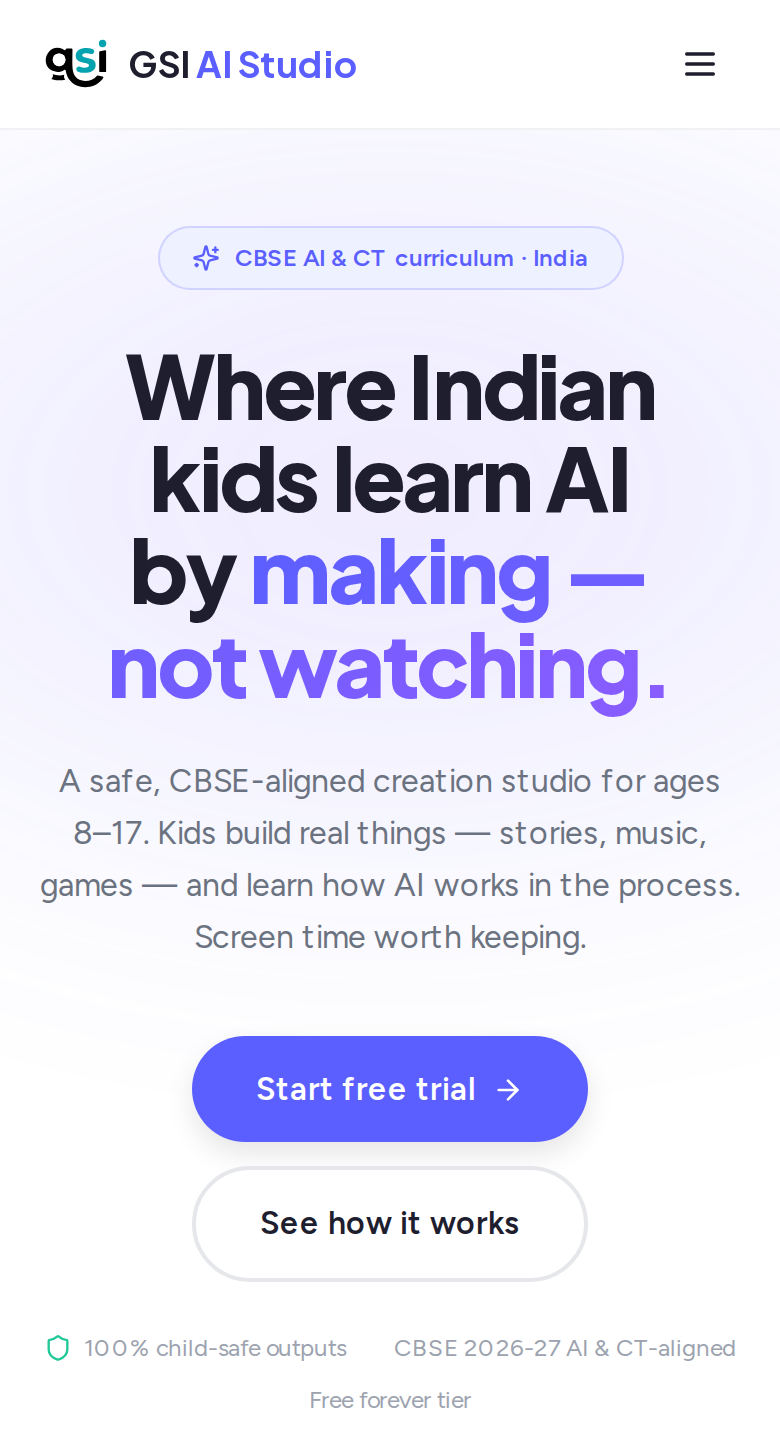
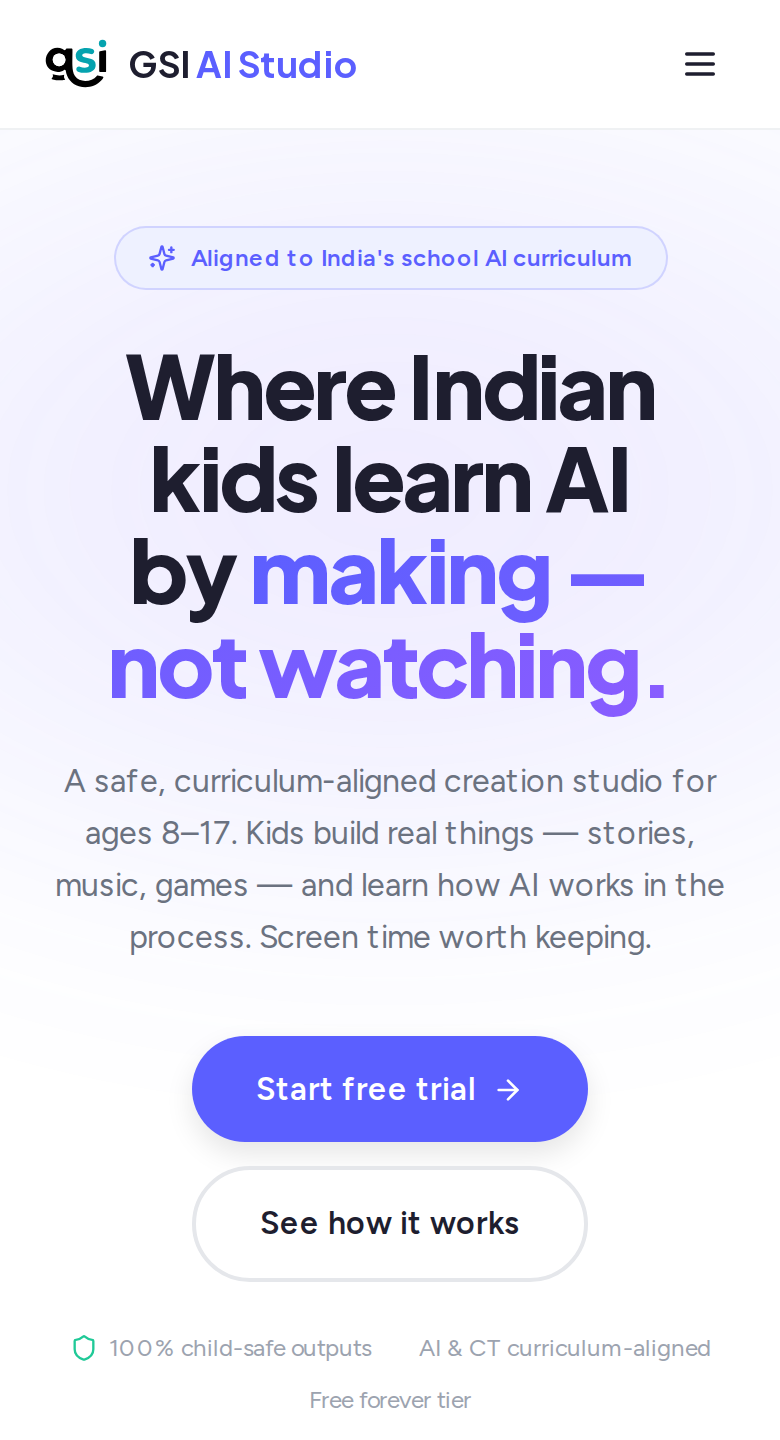
MARKETING-COPY: drop CBSE-specific framing, broaden to all boards
Locking the brand to CBSE shrinks the addressable market — ICSE,
state boards, IB, IGCSE families also need this. Rewrite the
shallow surfaces (hero variants, LogoBar pill, page metadata) to
positioning that includes every Indian board.

Replacements:
- "CBSE AI & CT-aligned" → "AI & CT curriculum-aligned"
- "Aligned to CBSE AI & CT" → "Aligned to India's school AI curriculum"
- "CBSE-aligned creation studio" → "curriculum-aligned creation studio"
- LogoBar pill "CBSE AI & CT Aligned · 2026-27 curriculum" →
  "AI & CT Curriculum-Aligned · For every Indian board"

Subject ("AI & Computational Thinking") stays — only the
board-specific brand leaves. Welcome metadata description, all 8
hero variants, and LogoBar updated.

Deeper components (AiXRayShowcase, ForSchoolsDetail, ParentFAQ,
VsChatGPT, Pricing, SiteFooter) still have CBSE references that
need a real re-thread, not a find-replace — leaving for the next
content pass.

diff --git a/content/marketing/welcome.ts b/content/marketing/welcome.ts
@@ -16,7 +16,7 @@
  */
 
 export interface HeroCopy {
-  /** Small pill above the headline (e.g. "Aligned to CBSE..."). */
+  /** Small pill above the headline (e.g. "Aligned to India's school AI curriculum"). */
   eyebrow: string;
   /** Plain text before the gradient highlight. */
   headlinePrefix: string;
@@ -45,7 +45,7 @@ export const HERO_STEPS: HeroStep[] = [
 export const heroVariants = {
   /* ─── v1: parent-careerist (current default) ────────────────────────── */
   v1_career: {
-    eyebrow: 'Aligned to CBSE AI & Computational Thinking · 2026-27',
+    eyebrow: "Aligned to India's school AI curriculum",
     headlinePrefix: 'From first story to',
     headlineHighlight: 'first AI engineer.',
     subhead:
@@ -61,7 +61,7 @@ export const heroVariants = {
 
   /* ─── v2: kid-magnetic (kids feel social pull, parents read "creative") */
   v2_kid_magnetic: {
-    eyebrow: 'CBSE AI & CT-aligned · Ages 8–17',
+    eyebrow: 'AI & CT curriculum-aligned · Ages 8–17',
     headlinePrefix: 'Make stuff other kids',
     headlineHighlight: 'actually want to see.',
     subhead:
@@ -70,7 +70,7 @@ export const heroVariants = {
     secondaryCta: { label: 'For schools', href: '#schools' },
     trustChips: [
       '100% child-safe outputs',
-      'CBSE AI & CT-aligned',
+      'AI & CT curriculum-aligned',
       'Free forever tier',
     ],
   },
@@ -81,7 +81,7 @@ export const heroVariants = {
     headlinePrefix: 'What will you',
     headlineHighlight: 'make today?',
     subhead:
-      'Indian kids spin up stories, songs, comics, quizzes and games with AI — and learn how AI actually works while they create. CBSE-aligned. Safe. Shareable.',
+      'Indian kids spin up stories, songs, comics, quizzes and games with AI — and learn how AI actually works while they create. Curriculum-aligned. Safe. Shareable.',
     primaryCta: { label: 'Make something — free', href: '/create/story' },
     secondaryCta: { label: 'For schools', href: '#schools' },
     trustChips: [
@@ -93,7 +93,7 @@ export const heroVariants = {
 
   /* ─── v4: sidekick (kid-empowerment, agency-first) ──────────────────── */
   v4_sidekick: {
-    eyebrow: 'CBSE AI & CT curriculum · 2026-27',
+    eyebrow: "Aligned to India's school AI curriculum",
     headlinePrefix: 'AI is your sidekick.',
     headlineHighlight: "You're the boss.",
     subhead:
@@ -109,64 +109,64 @@ export const heroVariants = {
 
   /* ─── v5: parent-first ("screen time worth keeping") ────────────────── */
   v5_parent_first: {
-    eyebrow: 'CBSE AI & CT curriculum · India',
+    eyebrow: "Aligned to India's school AI curriculum",
     headlinePrefix: 'Where Indian kids learn AI by',
     headlineHighlight: 'making — not watching.',
     subhead:
-      'A safe, CBSE-aligned creation studio for ages 8–17. Kids build real things — stories, music, games — and learn how AI works in the process. Screen time worth keeping.',
+      'A safe, curriculum-aligned creation studio for ages 8–17. Kids build real things — stories, music, games — and learn how AI works in the process. Screen time worth keeping.',
     primaryCta: { label: 'Start free trial', href: '/create/story' },
     secondaryCta: { label: 'See how it works', href: '#schools' },
     trustChips: [
       '100% child-safe outputs',
-      'CBSE 2026-27 AI & CT-aligned',
+      'AI & CT curriculum-aligned',
       'Free forever tier',
     ],
   },
 
   /* ─── v6: screen-time permission ────────────────────────────────────── */
   v6_screen_time: {
-    eyebrow: 'CBSE AI & CT curriculum · India',
+    eyebrow: "Aligned to India's school AI curriculum",
     headlinePrefix: "The screen time you'll be",
     headlineHighlight: 'glad they had.',
     subhead:
-      'An AI creation studio for Indian kids ages 8–17. They make stories, music and games — and walk away knowing how AI actually works. CBSE AI & CT-aligned. Safe by default.',
+      'An AI creation studio for Indian kids ages 8–17. They make stories, music and games — and walk away knowing how AI actually works. AI & CT curriculum-aligned. Safe by default.',
     primaryCta: { label: 'Start free trial', href: '/create/story' },
     secondaryCta: { label: 'See how it works', href: '#schools' },
     trustChips: [
       '100% child-safe outputs',
-      'CBSE 2026-27 AI & CT-aligned',
+      'AI & CT curriculum-aligned',
       'Free forever tier',
     ],
   },
 
   /* ─── v7: realist urgency (kids will use AI — direct it) ─────────────── */
   v7_realist: {
-    eyebrow: 'CBSE AI & CT-aligned · ages 8–17',
+    eyebrow: 'AI & CT curriculum-aligned · ages 8–17',
     headlinePrefix: 'Indian kids are using AI anyway.',
     headlineHighlight: 'Teach them to use it well.',
     subhead:
-      'A safe, CBSE-aligned creation studio for ages 8–17. Kids learn what AI can do, where it gets things wrong, and how to direct it — by making real things. Free forever tier.',
+      'A safe, curriculum-aligned creation studio for ages 8–17. Kids learn what AI can do, where it gets things wrong, and how to direct it — by making real things. Free forever tier.',
     primaryCta: { label: 'Get started — free', href: '/create/story' },
     secondaryCta: { label: 'See how it works', href: '#schools' },
     trustChips: [
       '100% child-safe outputs',
-      'CBSE AI & CT-aligned',
+      'AI & CT curriculum-aligned',
       'Free forever tier',
     ],
   },
 
   /* ─── v9: use → understand (build literacy, not just usage) ──────────── */
   v9_understand: {
-    eyebrow: 'CBSE AI & CT curriculum · 2026-27',
+    eyebrow: "Aligned to India's school AI curriculum",
     headlinePrefix: "Your kid won't just use AI.",
     headlineHighlight: "They'll learn how it works.",
     subhead:
-      'A creation studio for Indian kids ages 8–17. Aligned to the CBSE AI & Computational Thinking curriculum. Every output is safe, shareable, and built by them — not for them.',
+      "A creation studio for Indian kids ages 8–17. Aligned to India's AI & Computational Thinking curriculum — across every board. Every output is safe, shareable, and built by them — not for them.",
     primaryCta: { label: 'Start free trial', href: '/create/story' },
     secondaryCta: { label: 'See how it works', href: '#schools' },
     trustChips: [
       '100% child-safe outputs',
-      'CBSE 2026-27 AI & CT-aligned',
+      'AI & CT curriculum-aligned',
       'Free forever tier',
     ],
   },

diff --git a/app/(marketing)/welcome/page.tsx b/app/(marketing)/welcome/page.tsx
@@ -20,7 +20,7 @@ import { SiteFooter } from '@/components/marketing/SiteFooter';
 export const metadata: Metadata = {
   title: 'GSI AI Studio — From first story to first AI engineer',
   description:
-    'Indian kids learn AI by making things worth sharing. Create stories, music, quizzes and games with AI — and see how AI actually works. Aligned to the CBSE AI & Computational Thinking curriculum.',
+    "Indian kids learn AI by making things worth sharing. Create stories, music, quizzes and games with AI — and see how AI actually works. Aligned to India's school AI & Computational Thinking curriculum (every board).",
   openGraph: {
     title: 'GSI AI Studio',
     description: 'AI literacy, learned by creating.',

diff --git a/components/marketing/LogoBar.tsx b/components/marketing/LogoBar.tsx
@@ -1,7 +1,7 @@
 import { BadgeCheck, School, Globe2, Sparkles } from 'lucide-react';
 
 const AUTHORITIES = [
-  { icon: BadgeCheck, label: 'CBSE AI & CT Aligned', sub: '2026-27 curriculum' },
+  { icon: BadgeCheck, label: 'AI & CT Curriculum-Aligned', sub: 'For every Indian board' },
   { icon: School, label: 'GSI School Network', sub: '100+ partner schools' },
   { icon: Globe2, label: 'Made in Chennai', sub: 'Built for Indian kids' },
   { icon: Sparkles, label: 'DPDPA-ready', sub: 'Safe by design' },
